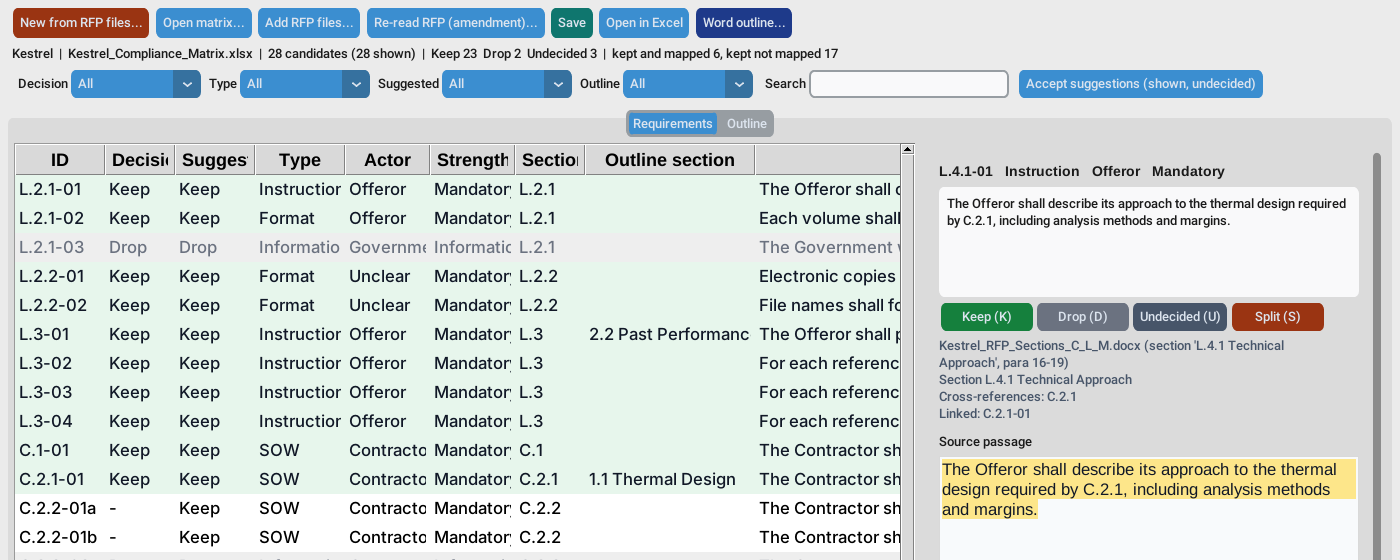
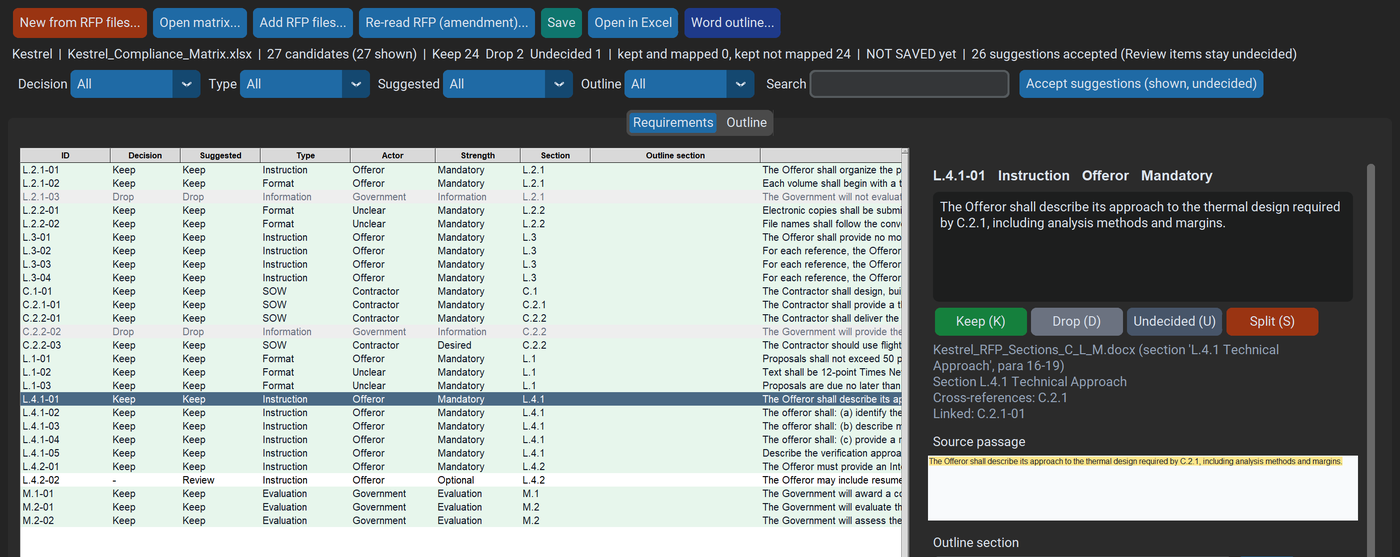
Compliance and volume check tables use the results table font (A-/A+); source passage scales for the display; Windows guide screenshots
Claude-Session: https://claude.ai/code/session_017b5ncCRSwjS1iiZcKs9k6a

diff --git a/compliance_ui.py b/compliance_ui.py
@@ -89,11 +89,13 @@ class ComplianceMixin:
         win = self._cwin
         size = getattr(self, "font_size", 13)
         from tkinter import font as tkfont
-        vf = tkfont.Font(fr, family="Arial", size=size)
+        vf = getattr(self, "tree_font", None) or tkfont.Font(fr, family="Segoe UI", size=size)   # the results table's text size (A- / A+)
+        hf = getattr(self, "head_font", None) or vf
         st = ttk.Style(fr)
         st.configure("Cm.Treeview", font=vf, rowheight=vf.metrics("linespace") + max(8, size // 2))
-        st.configure("Cm.Treeview.Heading", font=("Arial", size, "bold"))
-        sc = ctk.ScalingTracker.get_widget_scaling(fr) * size / 13
+        st.configure("Cm.Treeview.Heading", font=hf)
+        dpi = max(1.0, float(ctk.ScalingTracker.get_widget_scaling(fr)))   # raw Tk text is not scaled by CustomTkinter
+        sc = size / 13   # columns follow the text size, like the results table
         right = ctk.CTkScrollableFrame(fr, width=440); right.pack(side="right", fill="y", padx=(8, 0))
         left = ctk.CTkFrame(fr, fg_color="transparent"); left.pack(side="left", fill="both", expand=True)
         cols = [("id", "ID", 90), ("decision", "Decision", 70), ("suggest", "Suggested", 80), ("type", "Type", 90),
@@ -125,7 +127,7 @@ class ComplianceMixin:
         win.d_src = ctk.CTkLabel(right, text="", anchor="w", justify="left", wraplength=400, text_color=("#475569", "#94A3B8"))
         win.d_src.pack(fill="x", padx=10)
         ctk.CTkLabel(right, text="Source passage", anchor="w").pack(fill="x", padx=10, pady=(6, 0))
-        win.d_ctx = tk.Text(right, height=7, wrap="word", font=("Arial", size - 1), relief="flat", bg="#F8FAFC", fg="#111827")
+        win.d_ctx = tk.Text(right, height=7, wrap="word", font=("Segoe UI", int(round(10 * dpi))), relief="flat", bg="#F8FAFC", fg="#111827")
         win.d_ctx.tag_configure("hit", background="#FDE68A")
         win.d_ctx.pack(fill="x", padx=10)
         mp = ctk.CTkFrame(right, fg_color="transparent"); mp.pack(fill="x", padx=10, pady=(8, 2))

diff --git a/volcheck_ui.py b/volcheck_ui.py
@@ -90,9 +90,9 @@ class VolumeCheckMixin:
         size = getattr(self, "font_size", 13)
         st = ttk.Style(win)
         from tkinter import font as tkfont
-        vf = tkfont.Font(win, family="Arial", size=size)
+        vf = getattr(self, "tree_font", None) or tkfont.Font(win, family="Segoe UI", size=size)   # the results table's text size
         st.configure("Vol.Treeview", font=vf, rowheight=vf.metrics("linespace") + max(8, size // 2))
-        st.configure("Vol.Treeview.Heading", font=("Arial", size, "bold"))
+        st.configure("Vol.Treeview.Heading", font=getattr(self, "head_font", None) or vf)
 
         def table(tab, cols, rows, keys, widths, level=False, jump=True):
             fr = tabs.add(tab)
